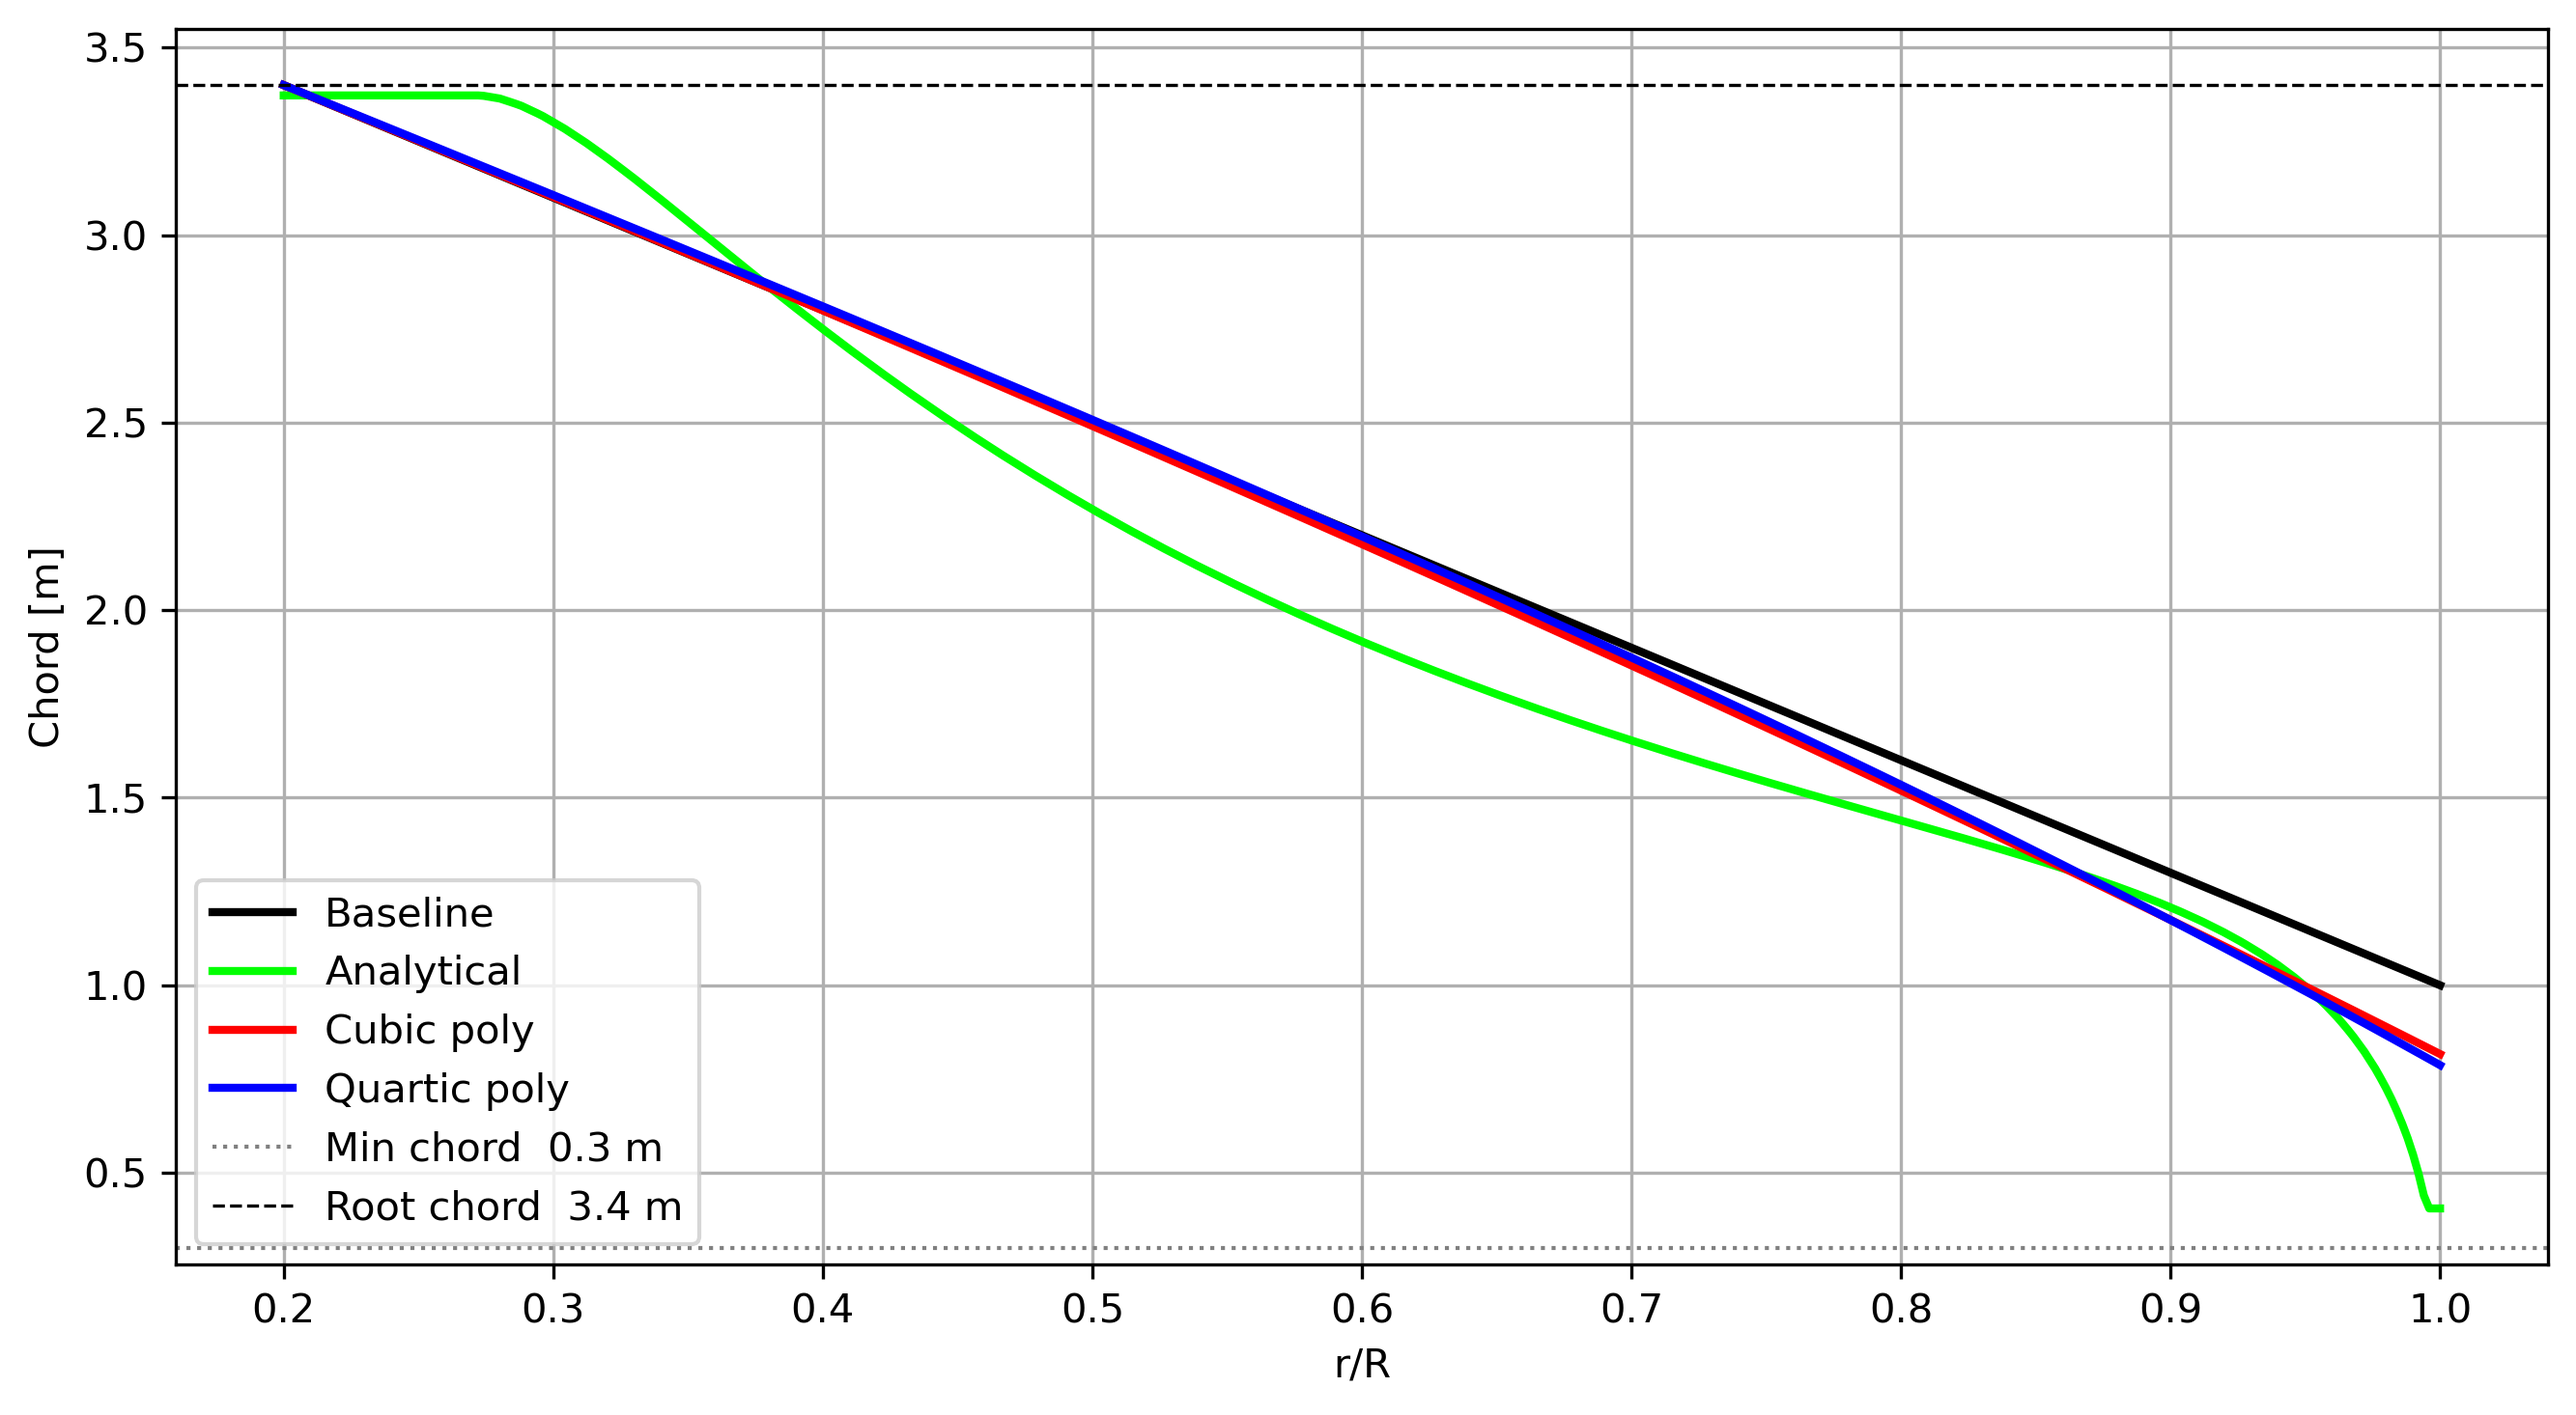
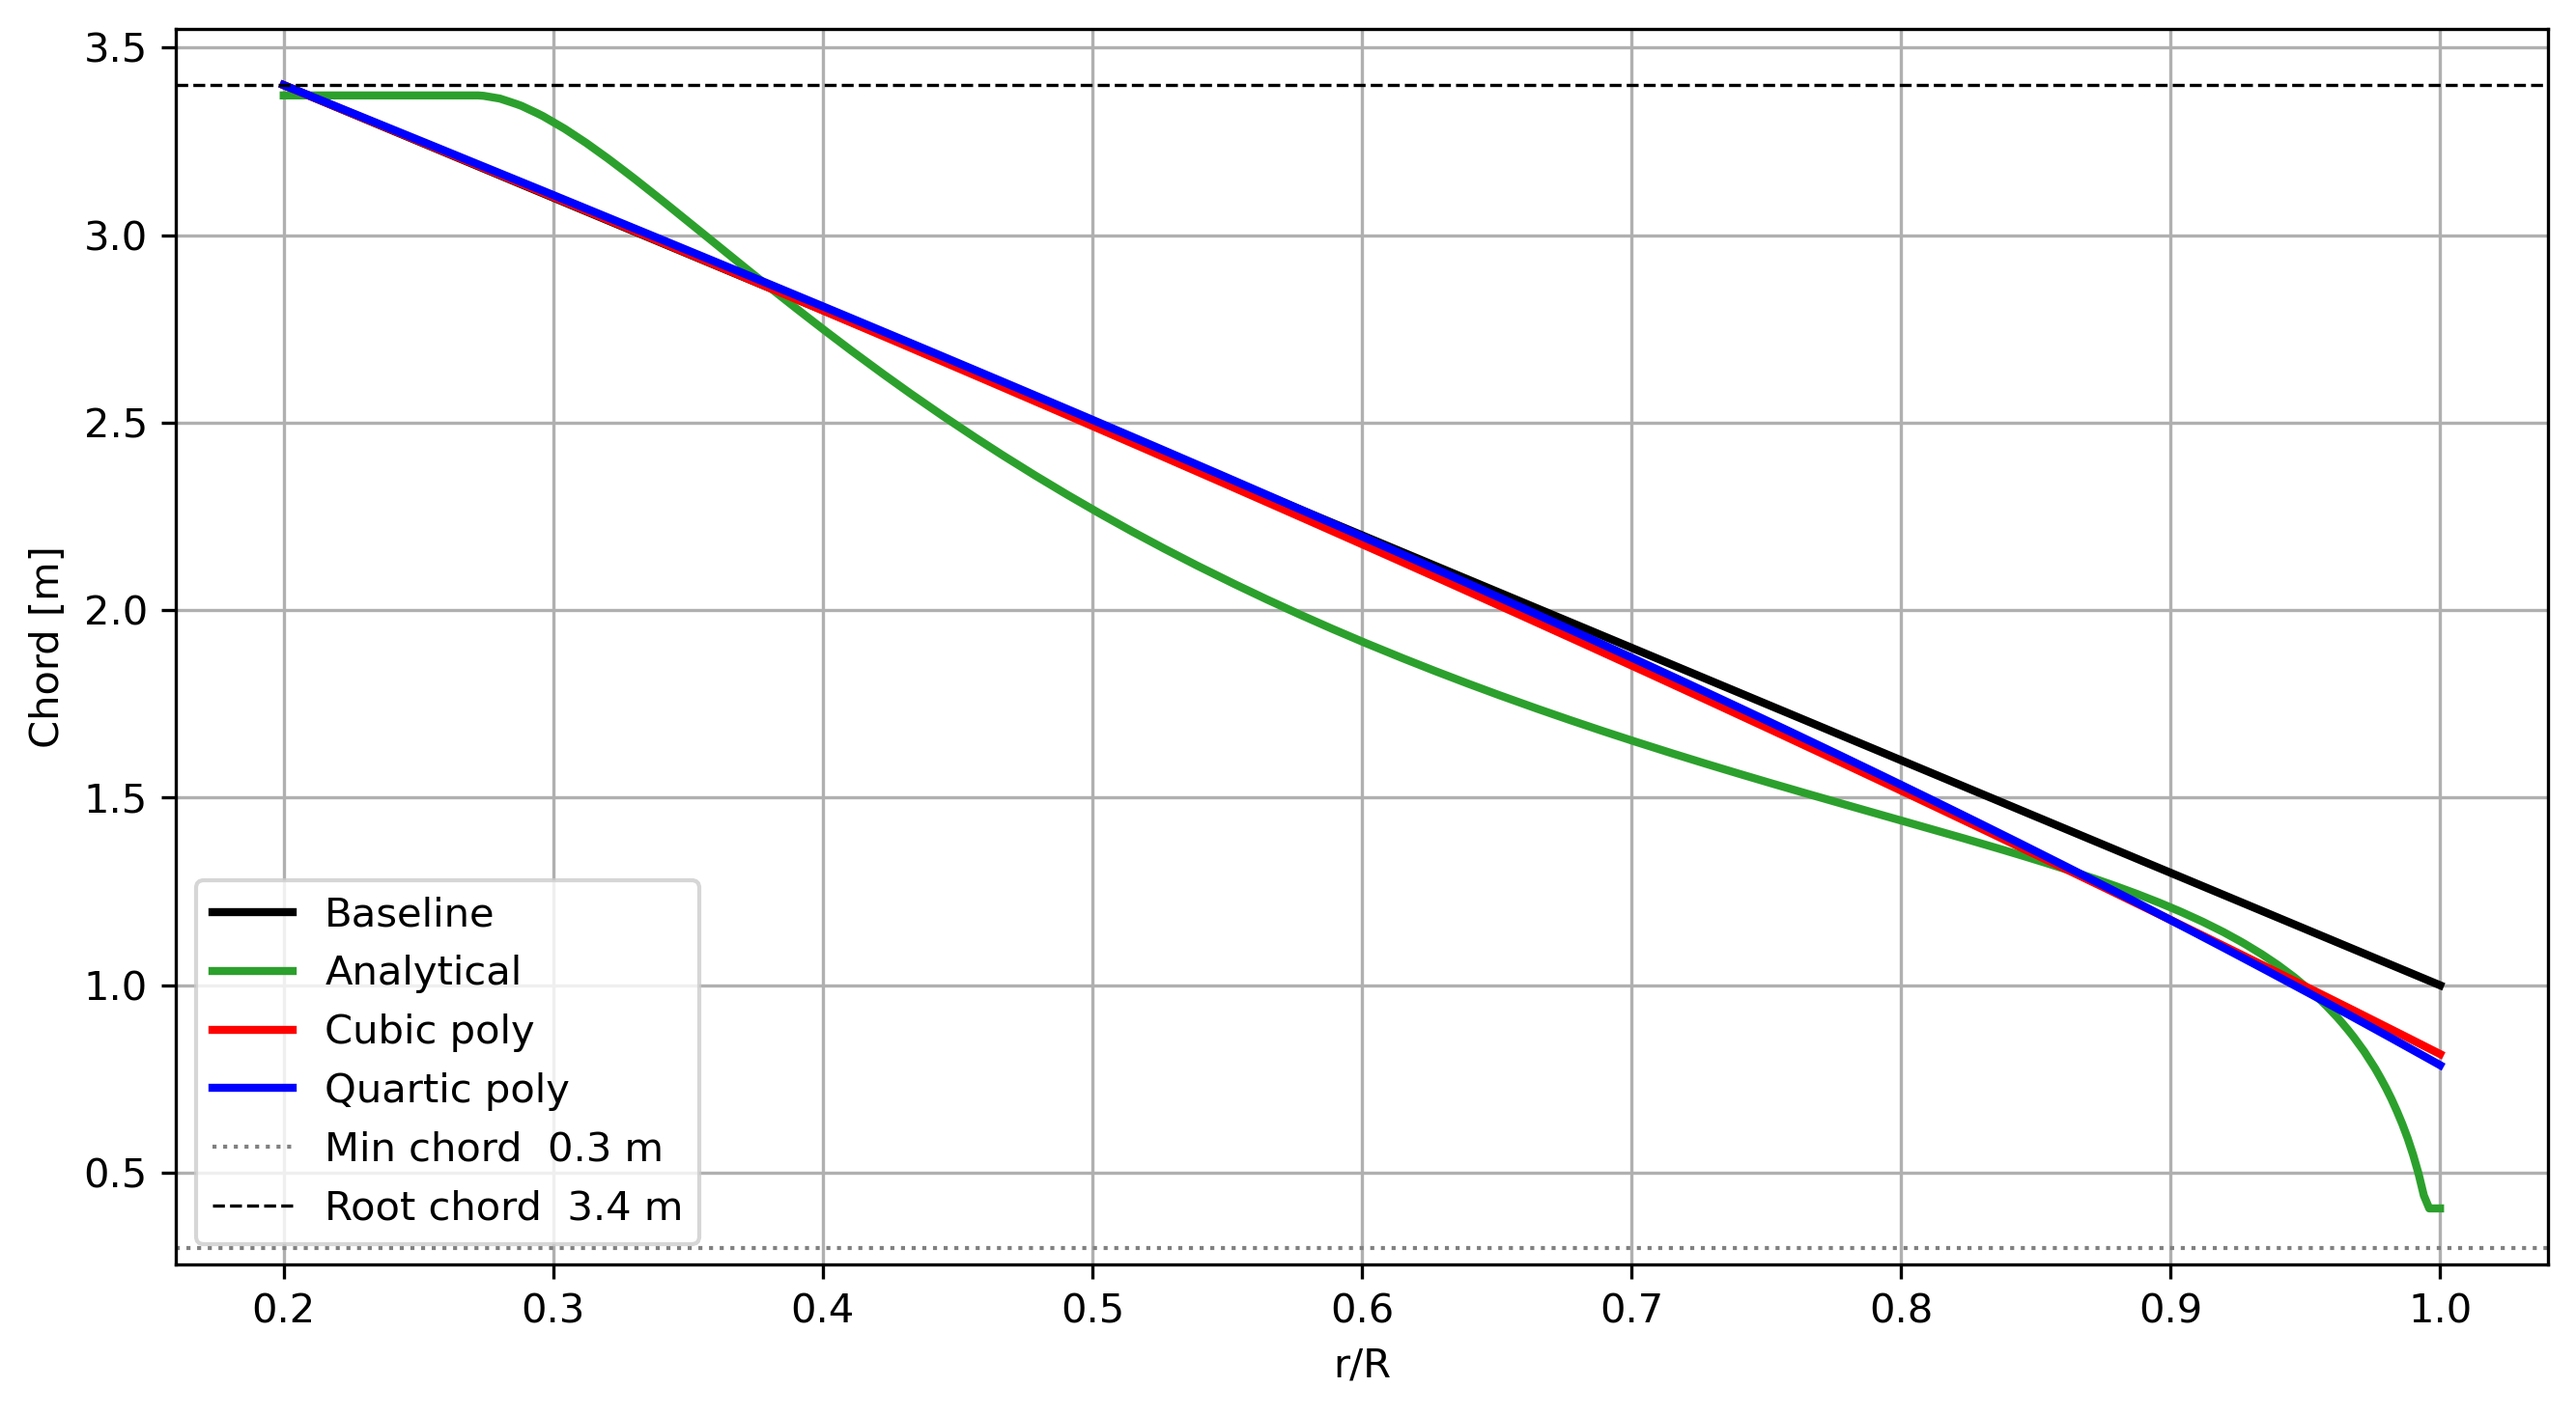
Update

diff --git a/BEM_FINAL/PLOTTING_BEM_FINAL.py b/BEM_FINAL/PLOTTING_BEM_FINAL.py
@@ -162,9 +162,9 @@ _TSR_MANY_COLORS = ["#000000", "#2ca02c", "#d62728", "#0000ff",
 def _tsr_color(idx, n):
     return _TSR_3_COLORS[idx % 3] if n <= 3 else _TSR_MANY_COLORS[idx % len(_TSR_MANY_COLORS)]
 
-_DESIGN_COLORS_3 = {"Baseline":"#000000","Analytical":"#00FF00",
+_DESIGN_COLORS_3 = {"Baseline":"#000000","Analytical":"#2ca02c",
                     "Cubic poly":"#FF0000","Quartic poly":"#0000FF"}
-_DESIGN_COLORS_4 = {"Baseline":"#000000","Analytical":"#00FF00",
+_DESIGN_COLORS_4 = {"Baseline":"#000000","Analytical":"#2ca02c",
                     "Cubic poly":"#FF0000","Quartic poly":"#0000FF"}
 
 def _design_color(label, n):
